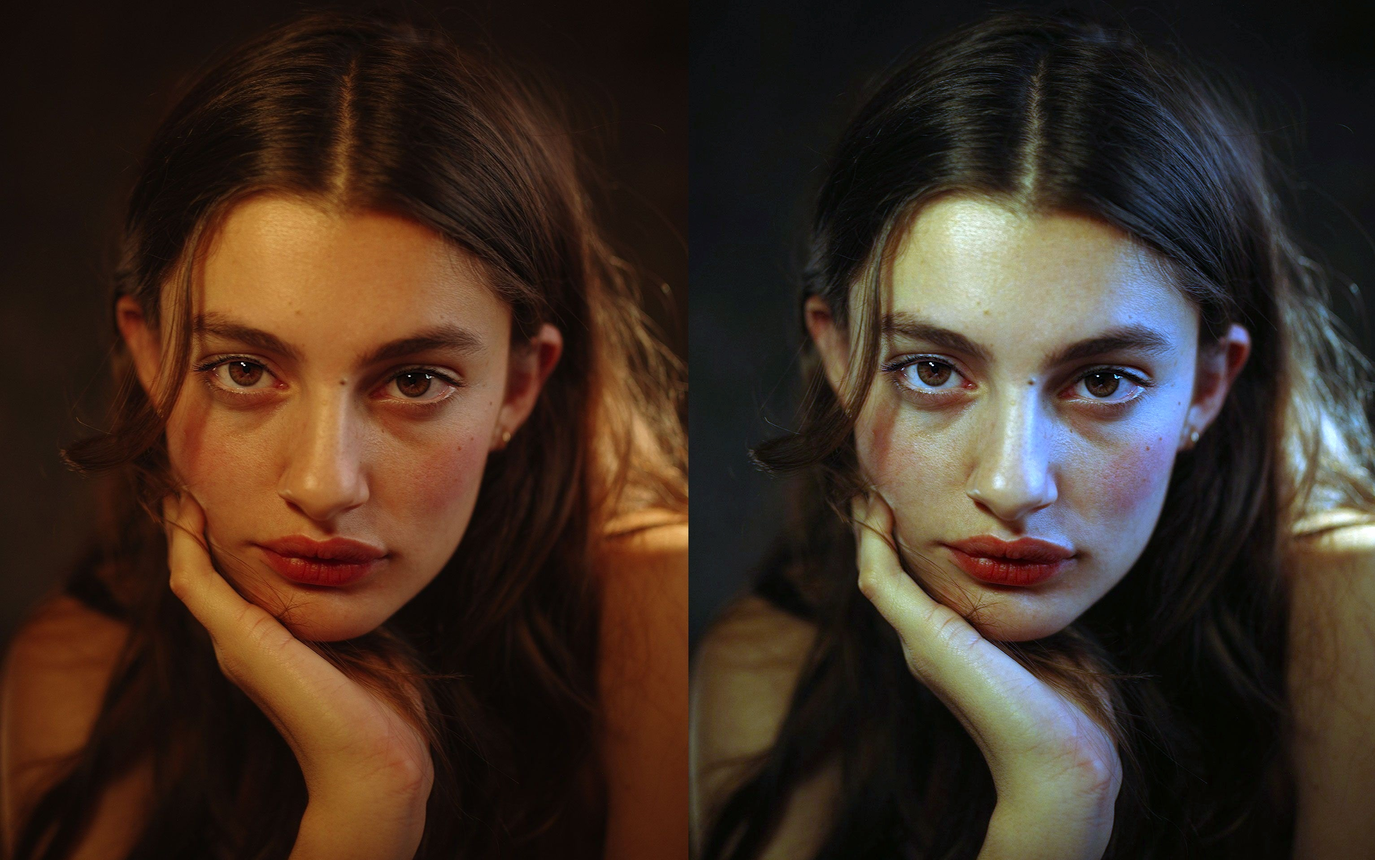
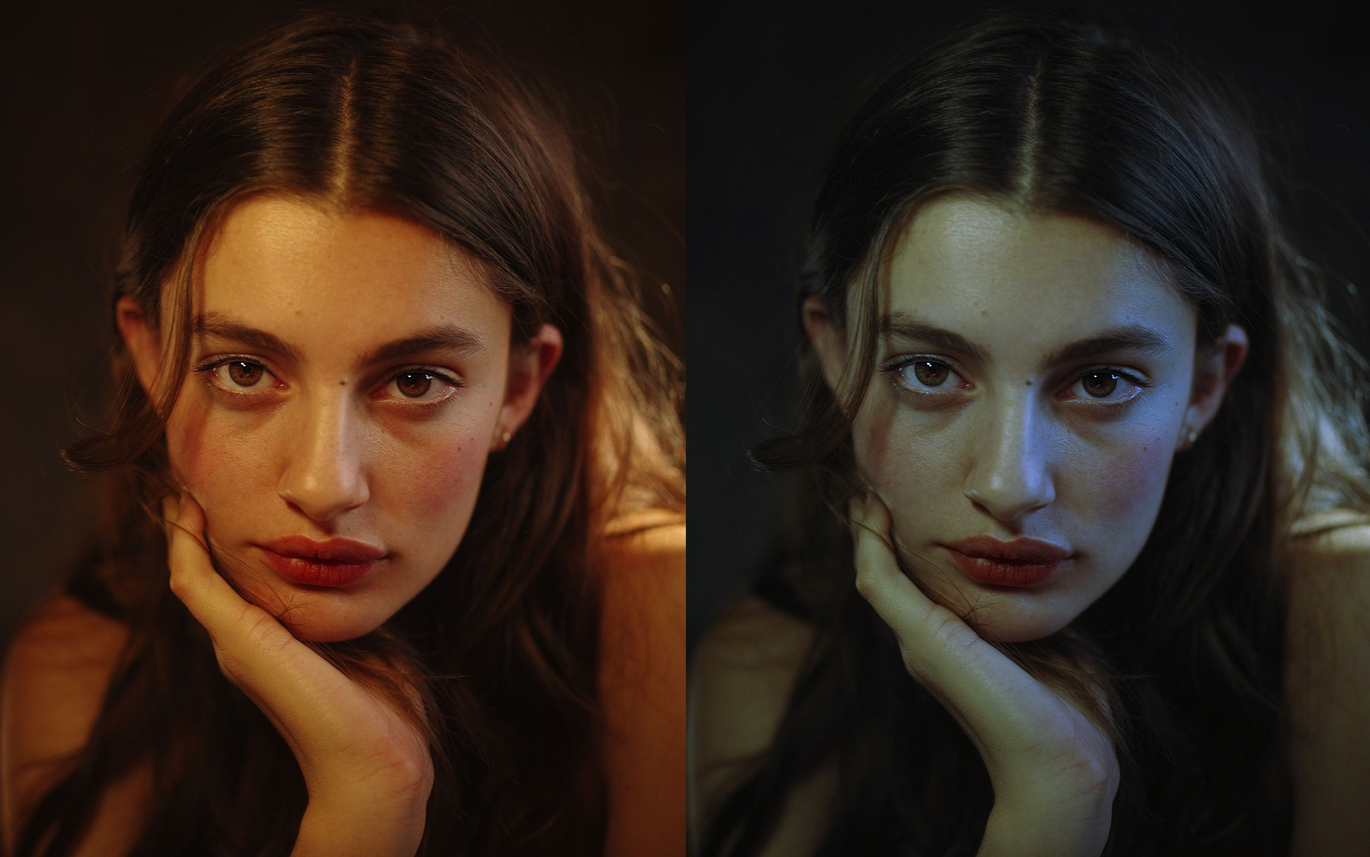
Added another example of white balance correction

diff --git a/QToolWhiteBalance.py b/QToolWhiteBalance.py
@@ -5,7 +5,7 @@ class QToolWhiteBalance(QTool):
     def __init__(self, parent=None, toolInput=None, onCompleted=None):
         super(QToolWhiteBalance, self).__init__(parent, "White Balance Correction", 
                                              "Correct a camera image that has been improperly white balanced\nhttps://github.com/mahmoudnafifi/WB_sRGB",
-                                             "images/WhiteBalance_04.jpg", 
+                                             "images/WhiteBalance_05.jpg", 
                                              self.onRun, toolInput, onCompleted)
 
         self.parent = parent
